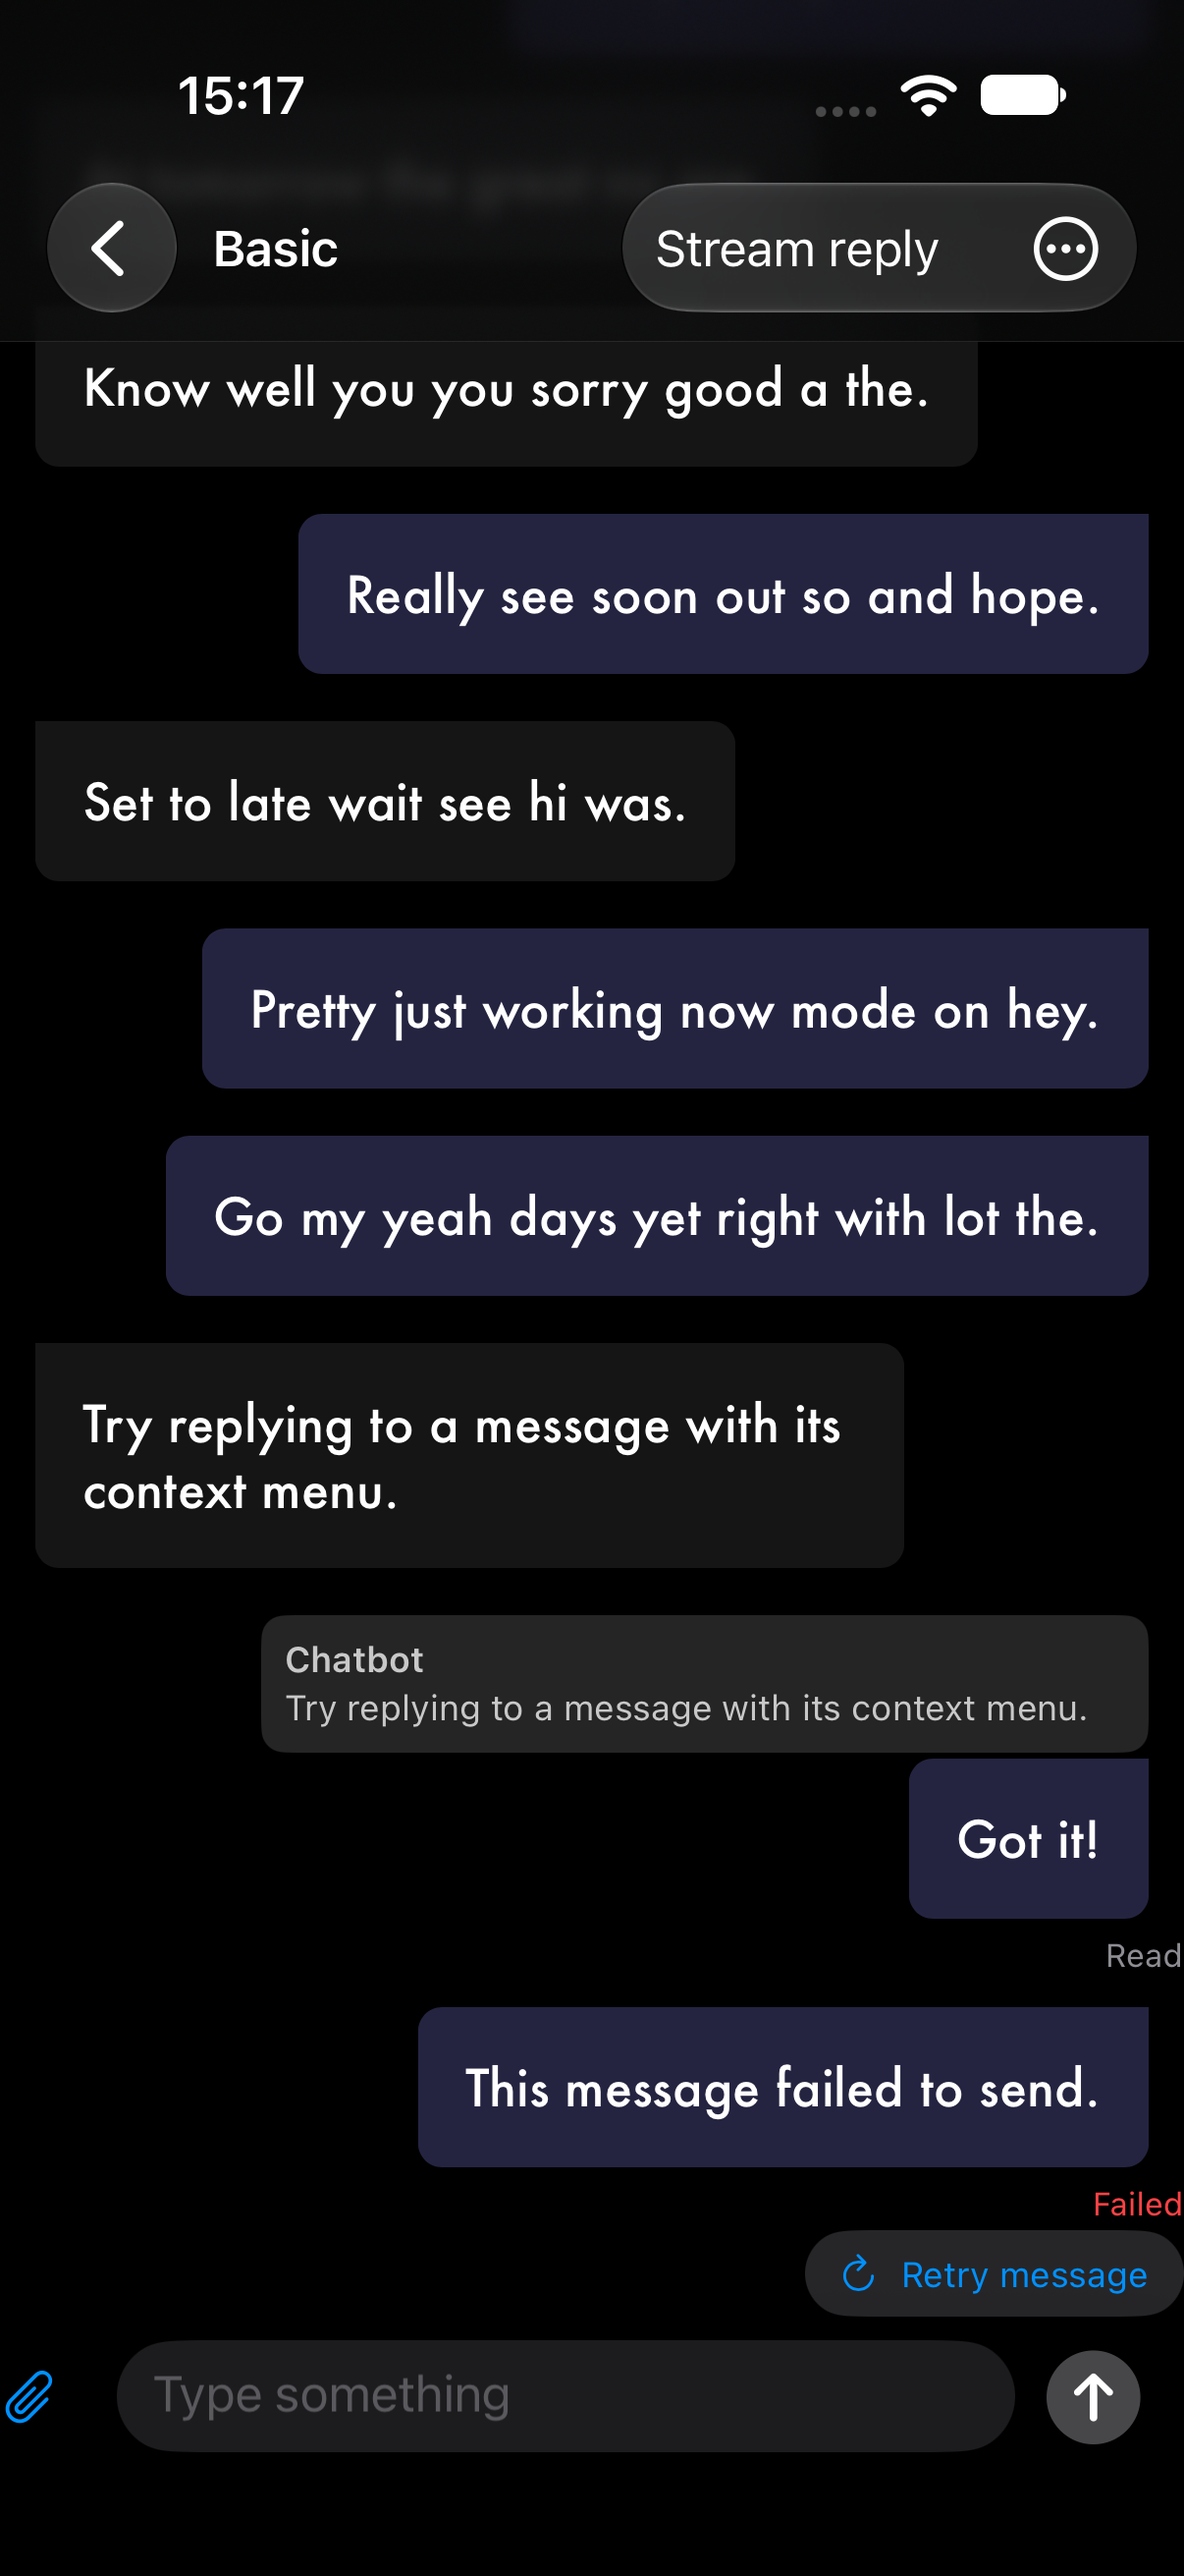
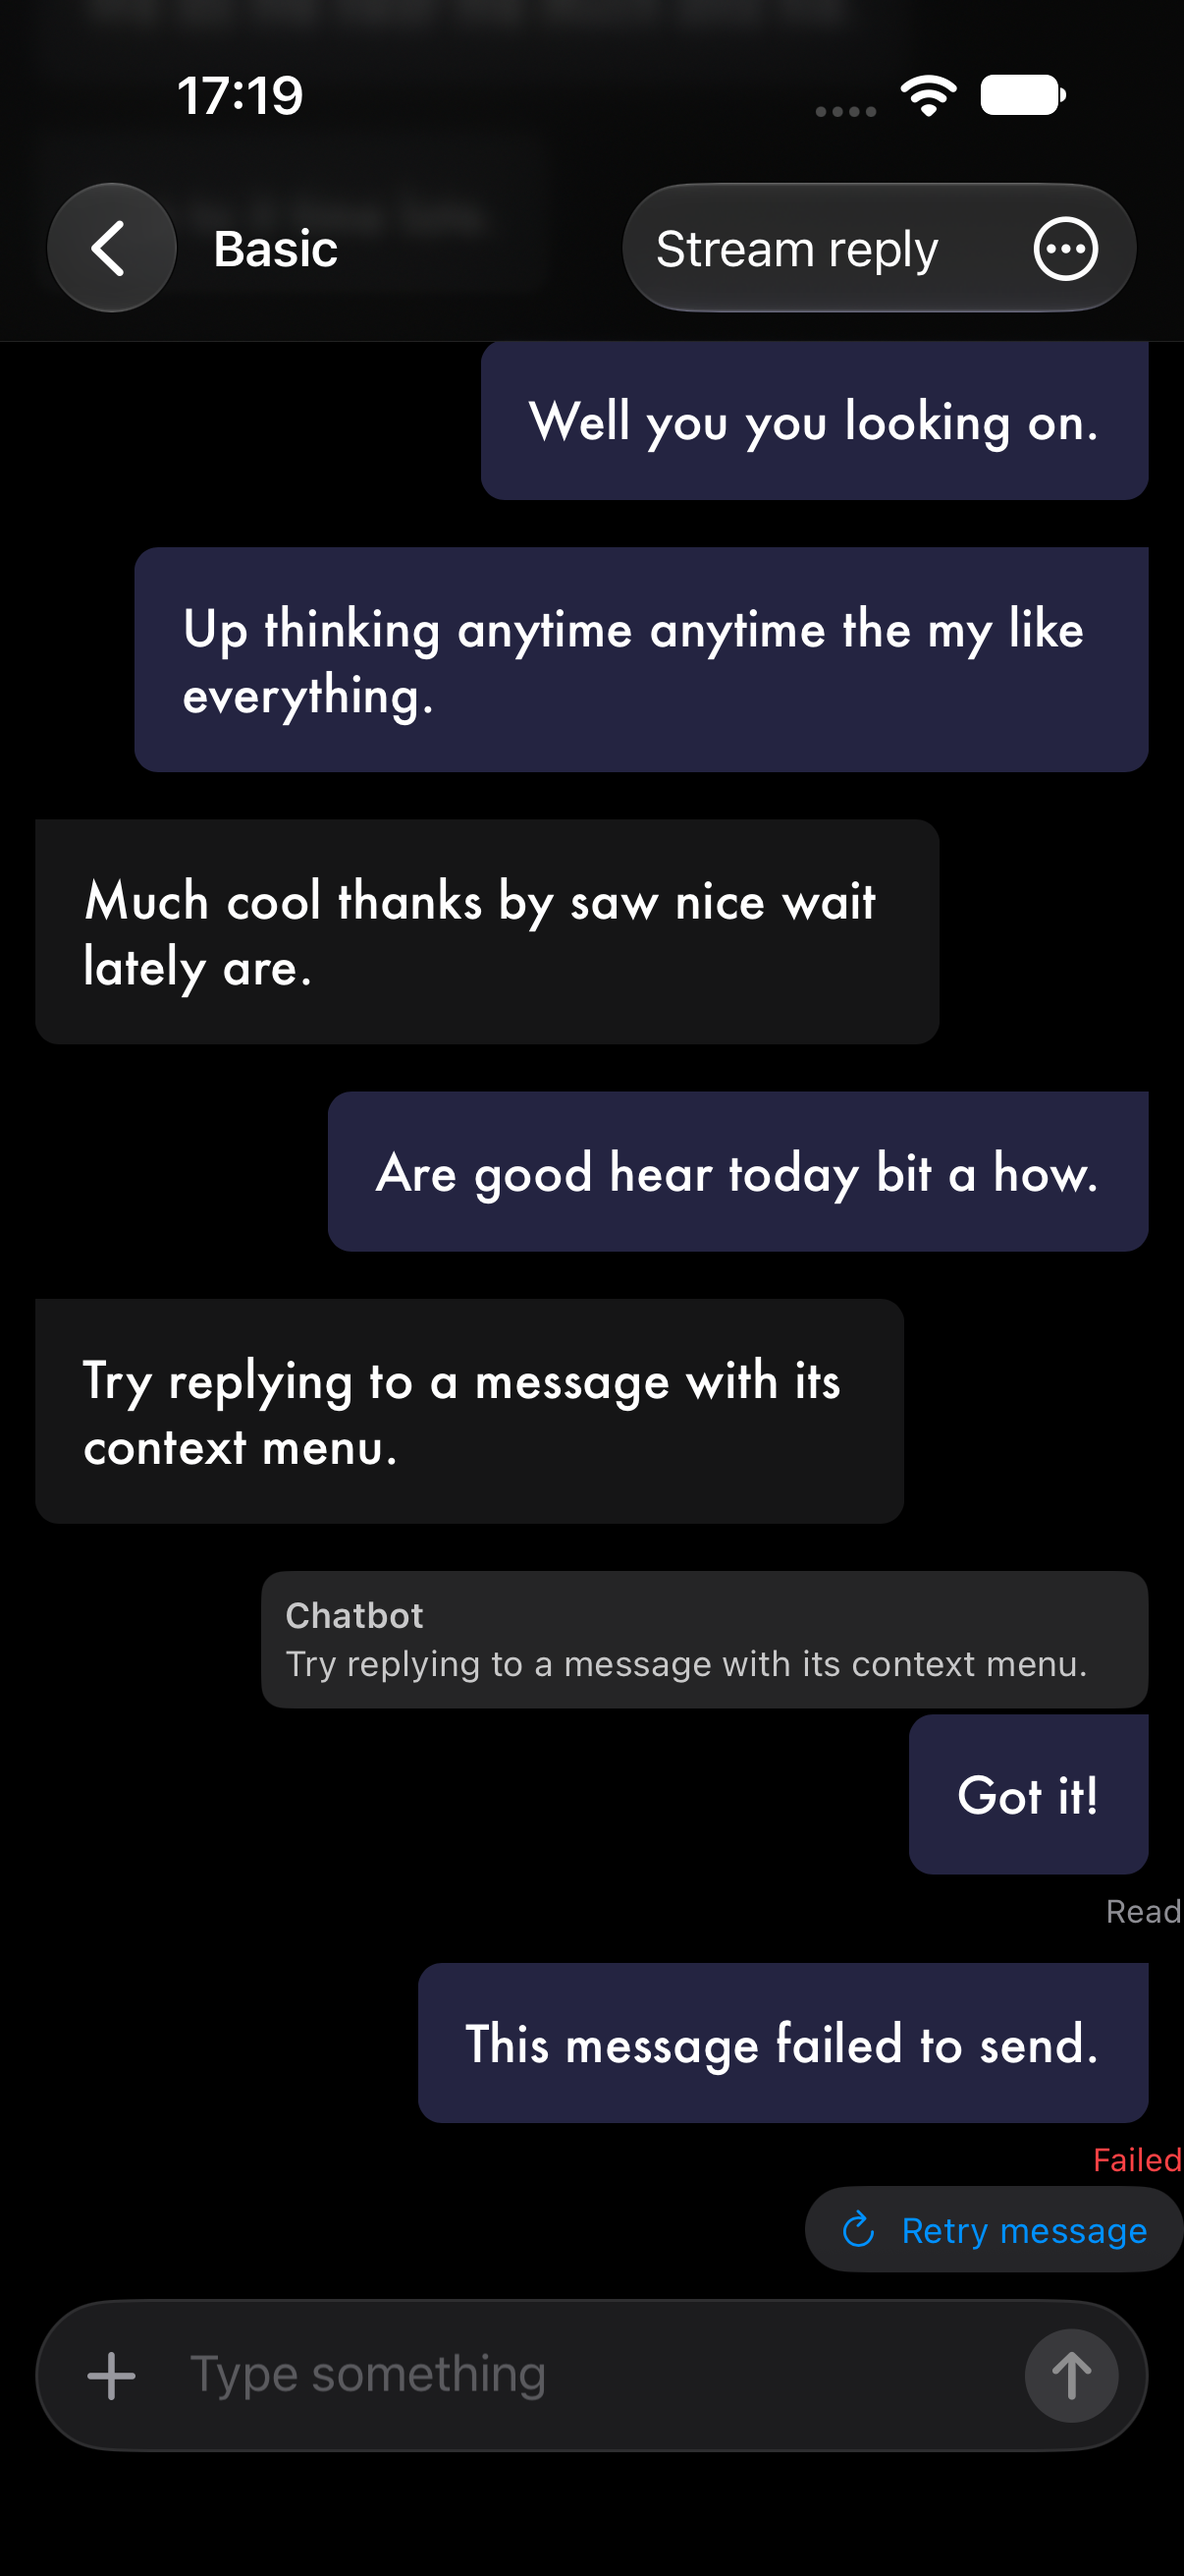
Refine composer layout and integrate attachment action

diff --git a/Sources/SwiftyChat/InputView/BasicInputView.swift b/Sources/SwiftyChat/InputView/BasicInputView.swift
@@ -18,6 +18,7 @@ public struct BasicInputView: View {
 
     @Binding private var message: String
     private let placeholder: String
+    private let onAttachment: (() -> Void)?
 
     private var onCommit: ((ChatMessageKind) -> Void)?
 
@@ -25,30 +26,27 @@ public struct BasicInputView: View {
     /// - Parameters:
     ///   - message: Binding to the current text input.
     ///   - placeholder: Placeholder text shown when the field is empty.
+    ///   - onAttachment: Shows an attachment button when provided; present your app's picker from this closure.
     ///   - onCommit: Called with a ``ChatMessageKind/text(_:)`` value when the user taps send.
     public init(
         message: Binding<String>,
         placeholder: String = "",
+        onAttachment: (() -> Void)? = nil,
         onCommit: @escaping (ChatMessageKind) -> Void
     ) {
         self._message = message
         self.placeholder = placeholder
+        self.onAttachment = onAttachment
         self.onCommit = onCommit
     }
 
     private var messageEditorView: some View {
         TextField(placeholder, text: $message, axis: .vertical)
             .lineLimit(1...5)
-            .padding(.horizontal, 12)
-            .padding(.vertical, 8)
-            .background(
-                RoundedRectangle(cornerRadius: 20)
-                    #if os(iOS)
-                    .fill(Color(.secondarySystemBackground))
-                    #else
-                    .fill(Color(.controlBackgroundColor))
-                    #endif
-            )
+            .textFieldStyle(.plain)
+            .padding(.leading, onAttachment == nil ? 12 : 0)
+            .padding(.vertical, 11)
+            .frame(minHeight: 44)
     }
 
     private var sendButton: some View {
@@ -61,7 +59,10 @@ public struct BasicInputView: View {
                 .font(.system(size: 32))
                 .symbolRenderingMode(.palette)
                 .foregroundStyle(.white, canSend ? Color.accentColor : Color.gray.opacity(0.5))
+                .frame(width: 44, height: 44)
+                .contentShape(Rectangle())
         })
+        .buttonStyle(.plain)
         .disabled(!canSend)
         .accessibilityLabel("Send message")
         .animation(.easeInOut(duration: 0.15), value: canSend)
@@ -72,9 +73,34 @@ public struct BasicInputView: View {
     }
 
     public var body: some View {
-        HStack(alignment: .bottom, spacing: 8) {
+        HStack(alignment: .bottom, spacing: 4) {
+            if let onAttachment {
+                Button(action: onAttachment) {
+                    Image(systemName: "plus")
+                        .font(.system(size: 20, weight: .medium))
+                        .foregroundStyle(.secondary)
+                        .frame(width: 44, height: 44)
+                        .contentShape(Rectangle())
+                }
+                .buttonStyle(.plain)
+                .accessibilityLabel("Add attachment")
+            }
             messageEditorView
             sendButton
+        }
+        .padding(4)
+        .background {
+            RoundedRectangle(cornerRadius: 26)
+                #if os(iOS)
+                .fill(Color(.secondarySystemBackground))
+                #else
+                .fill(Color(.controlBackgroundColor))
+                #endif
+        }
+        .overlay {
+            RoundedRectangle(cornerRadius: 26)
+                .strokeBorder(.primary.opacity(0.08), lineWidth: 1)
+                .allowsHitTesting(false)
         }
         .padding(.horizontal, 12)
         .padding(.vertical, 8)

diff --git a/SwiftyChatDemo/SwiftyChatDemo/BasicExampleView.swift b/SwiftyChatDemo/SwiftyChatDemo/BasicExampleView.swift
@@ -28,6 +28,7 @@ struct BasicExampleView: View {
     @State private var incomingMessageCount = 0
     #if os(iOS)
     @State private var selectedMedia: PhotosPickerItem?
+    @State private var isMediaPickerPresented = false
     @State private var mediaError: String?
     #endif
 
@@ -85,31 +86,31 @@ struct BasicExampleView: View {
                     }
                     .padding(8)
                 }
-                HStack {
-                    #if os(iOS)
-                    PhotosPicker(selection: $selectedMedia, matching: .any(of: [.images, .videos])) {
-                        Image(systemName: "paperclip")
+                BasicInputView(
+                    message: $message,
+                    placeholder: "Type something",
+                    onAttachment: attachmentAction,
+                    onCommit: { messageKind in
+                        self.messages.append(.init(
+                            user: MessageMocker.sender,
+                            messageKind: messageKind,
+                            isSender: true,
+                            replyPreview: replyPreview,
+                            replyToMessageID: replyToMessageID,
+                            deliveryStatus: .sent
+                        ))
+                        replyPreview = nil
+                        replyToMessageID = nil
+                        scrollToBottom = true
                     }
-                    .accessibilityLabel("Attach photo or video")
-                    #endif
-                    BasicInputView(
-                        message: $message,
-                        placeholder: "Type something",
-                        onCommit: { messageKind in
-                            self.messages.append(.init(
-                                user: MessageMocker.sender,
-                                messageKind: messageKind,
-                                isSender: true,
-                                replyPreview: replyPreview,
-                                replyToMessageID: replyToMessageID,
-                                deliveryStatus: .sent
-                            ))
-                            replyPreview = nil
-                            replyToMessageID = nil
-                            scrollToBottom = true
-                        }
-                    )
-                }
+                )
+                #if os(iOS)
+                .photosPicker(
+                    isPresented: $isMediaPickerPresented,
+                    selection: $selectedMedia,
+                    matching: .any(of: [.images, .videos])
+                )
+                #endif
             }
             .background(Color.primary.colorInvert())
         }, reachedTop: loadOlder)
@@ -199,6 +200,14 @@ struct BasicExampleView: View {
             .labelStyle(.iconOnly)
             .accessibilityLabel("Demo actions")
         }
+    }
+
+    private var attachmentAction: (() -> Void)? {
+        #if os(iOS)
+        { isMediaPickerPresented = true }
+        #else
+        nil
+        #endif
     }
 
     private func receiveMessage(_ text: String) {

diff --git a/README.md b/README.md
@@ -140,6 +140,21 @@ public enum ChatMessageKind: CustomStringConvertible {
 
 A built-in `BasicInputView` is included. Use it as-is, or build your own — `ChatView` accepts any view via its `inputView` closure.
 
+The upcoming release brings a unified composer with an optional attachment button. Provide `onAttachment` to open your picker; existing initializers continue to work:
+
+```swift
+BasicInputView(
+    message: $message,
+    placeholder: "Write a message…",
+    onAttachment: { isPickerPresented = true },
+    onCommit: sendMessage
+)
+```
+
+| Composer | With keyboard |
+|:---:|:---:|
+| <picture><source media="(prefers-color-scheme: dark)" srcset="Documentation/Images/composer-dark.png"/><img src="Documentation/Images/composer-light.png" width="280" alt="Unified composer with integrated attachment and send buttons"/></picture> | <picture><source media="(prefers-color-scheme: dark)" srcset="Documentation/Images/composer-keyboard-dark.png"/><img src="Documentation/Images/composer-keyboard-light.png" width="280" alt="Composer with a draft and the native keyboard open"/></picture> |
+
 The demo's text chat adds pagination, streaming replies, reply quotes, delivery status, and an iOS photo/video picker. `ChatMessage` has optional `replyPreview` and `deliveryStatus` properties with `nil` defaults, so existing message types still compile.
 
 ### Conversation navigation (unreleased)

diff --git a/Sources/SwiftyChat/Documentation.docc/GettingStarted.md b/Sources/SwiftyChat/Documentation.docc/GettingStarted.md
@@ -58,6 +58,19 @@ struct ContentView: View {
 
 ## Customize the Style
 
+``BasicInputView`` keeps the text field and send action in one adaptive surface. To include an attachment button, pass `onAttachment` and present your app's picker from the callback:
+
+```swift
+BasicInputView(
+    message: $inputText,
+    placeholder: "Write a message…",
+    onAttachment: { isPickerPresented = true },
+    onCommit: sendMessage
+)
+```
+
+Omit `onAttachment` for a text-only composer.
+
 Inject a ``ChatMessageCellStyle`` via the environment to control colors, fonts, corner radii, avatars, and more:
 
 ```swift
